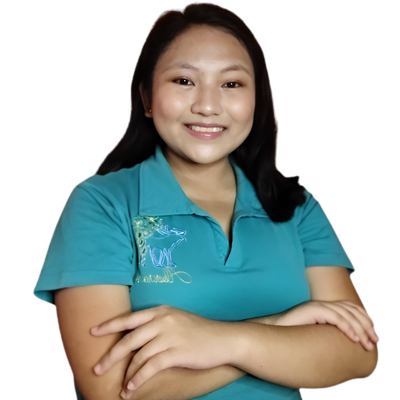
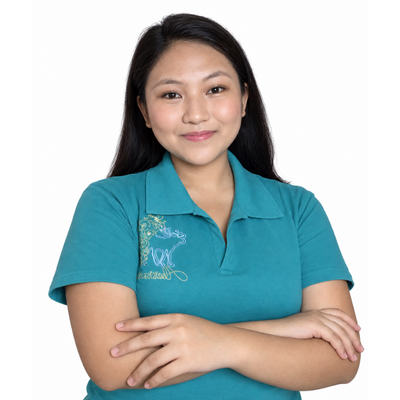
portfolio update 2026

Changed region(s): [[0.06, 0.0, 0.96, 1.0], [0.78, 0.54, 0.84, 0.6], [0.75, 0.6, 0.78, 0.63]]

diff --git a/index.html b/index.html
@@ -50,7 +50,7 @@
             </div>
             
             <div class="about__image-container">
-                <img src="./assets/profile-nobg.png" alt="Rhyah Austrie Reyes" class="about__image-nobg">
+                <img src="./assets/profile-photo.png" alt="Rhyah Austrie Reyes" class="about__image-nobg">
             </div>
         </div>
 
